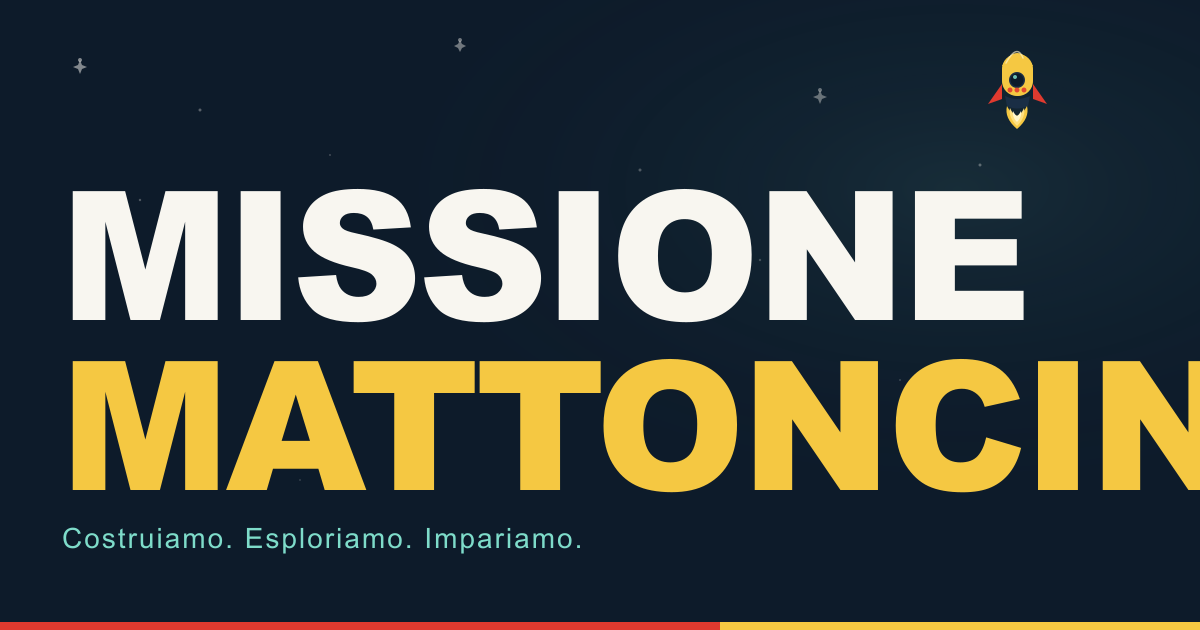
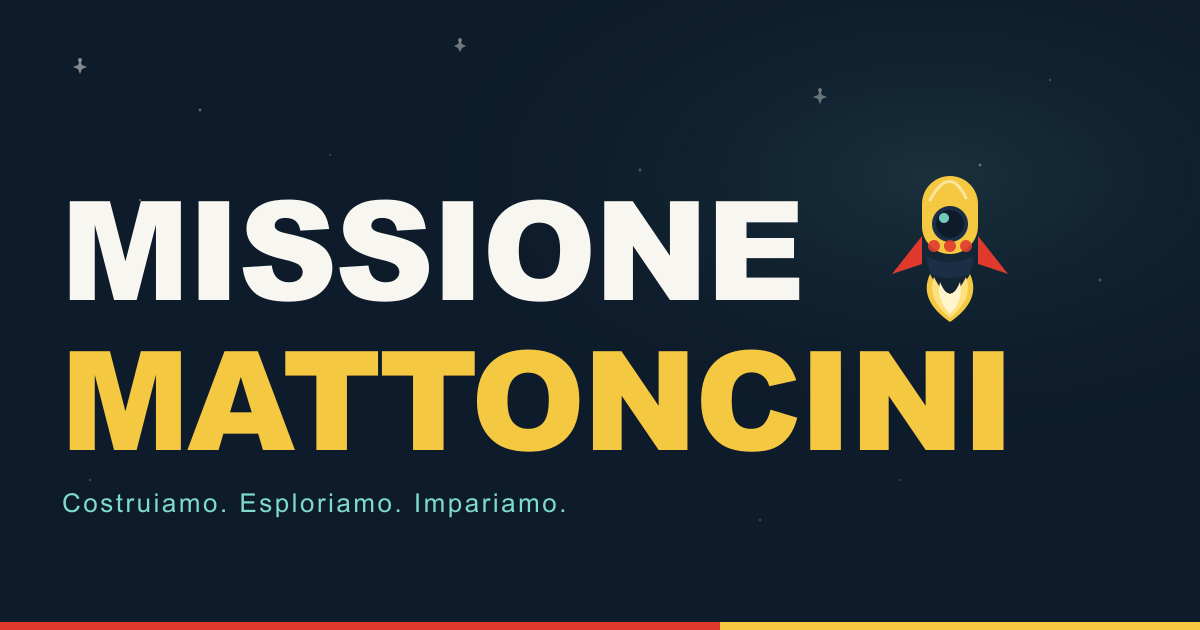
OG image: smaller text, larger rocket beside MISSIONE; contatti: more top padding on mobile

diff --git a/contatti.html b/contatti.html
@@ -271,7 +271,7 @@ body.unlocked { overflow: auto; height: auto; }
   }
   .hero {
     height: calc(100vh - 88px - env(safe-area-inset-top, 0px));
-    padding-top: 28px;
+    padding-top: 64px;
   }
   .drawer-close-wrap { display: none; }
   .drawer-close-corner {
